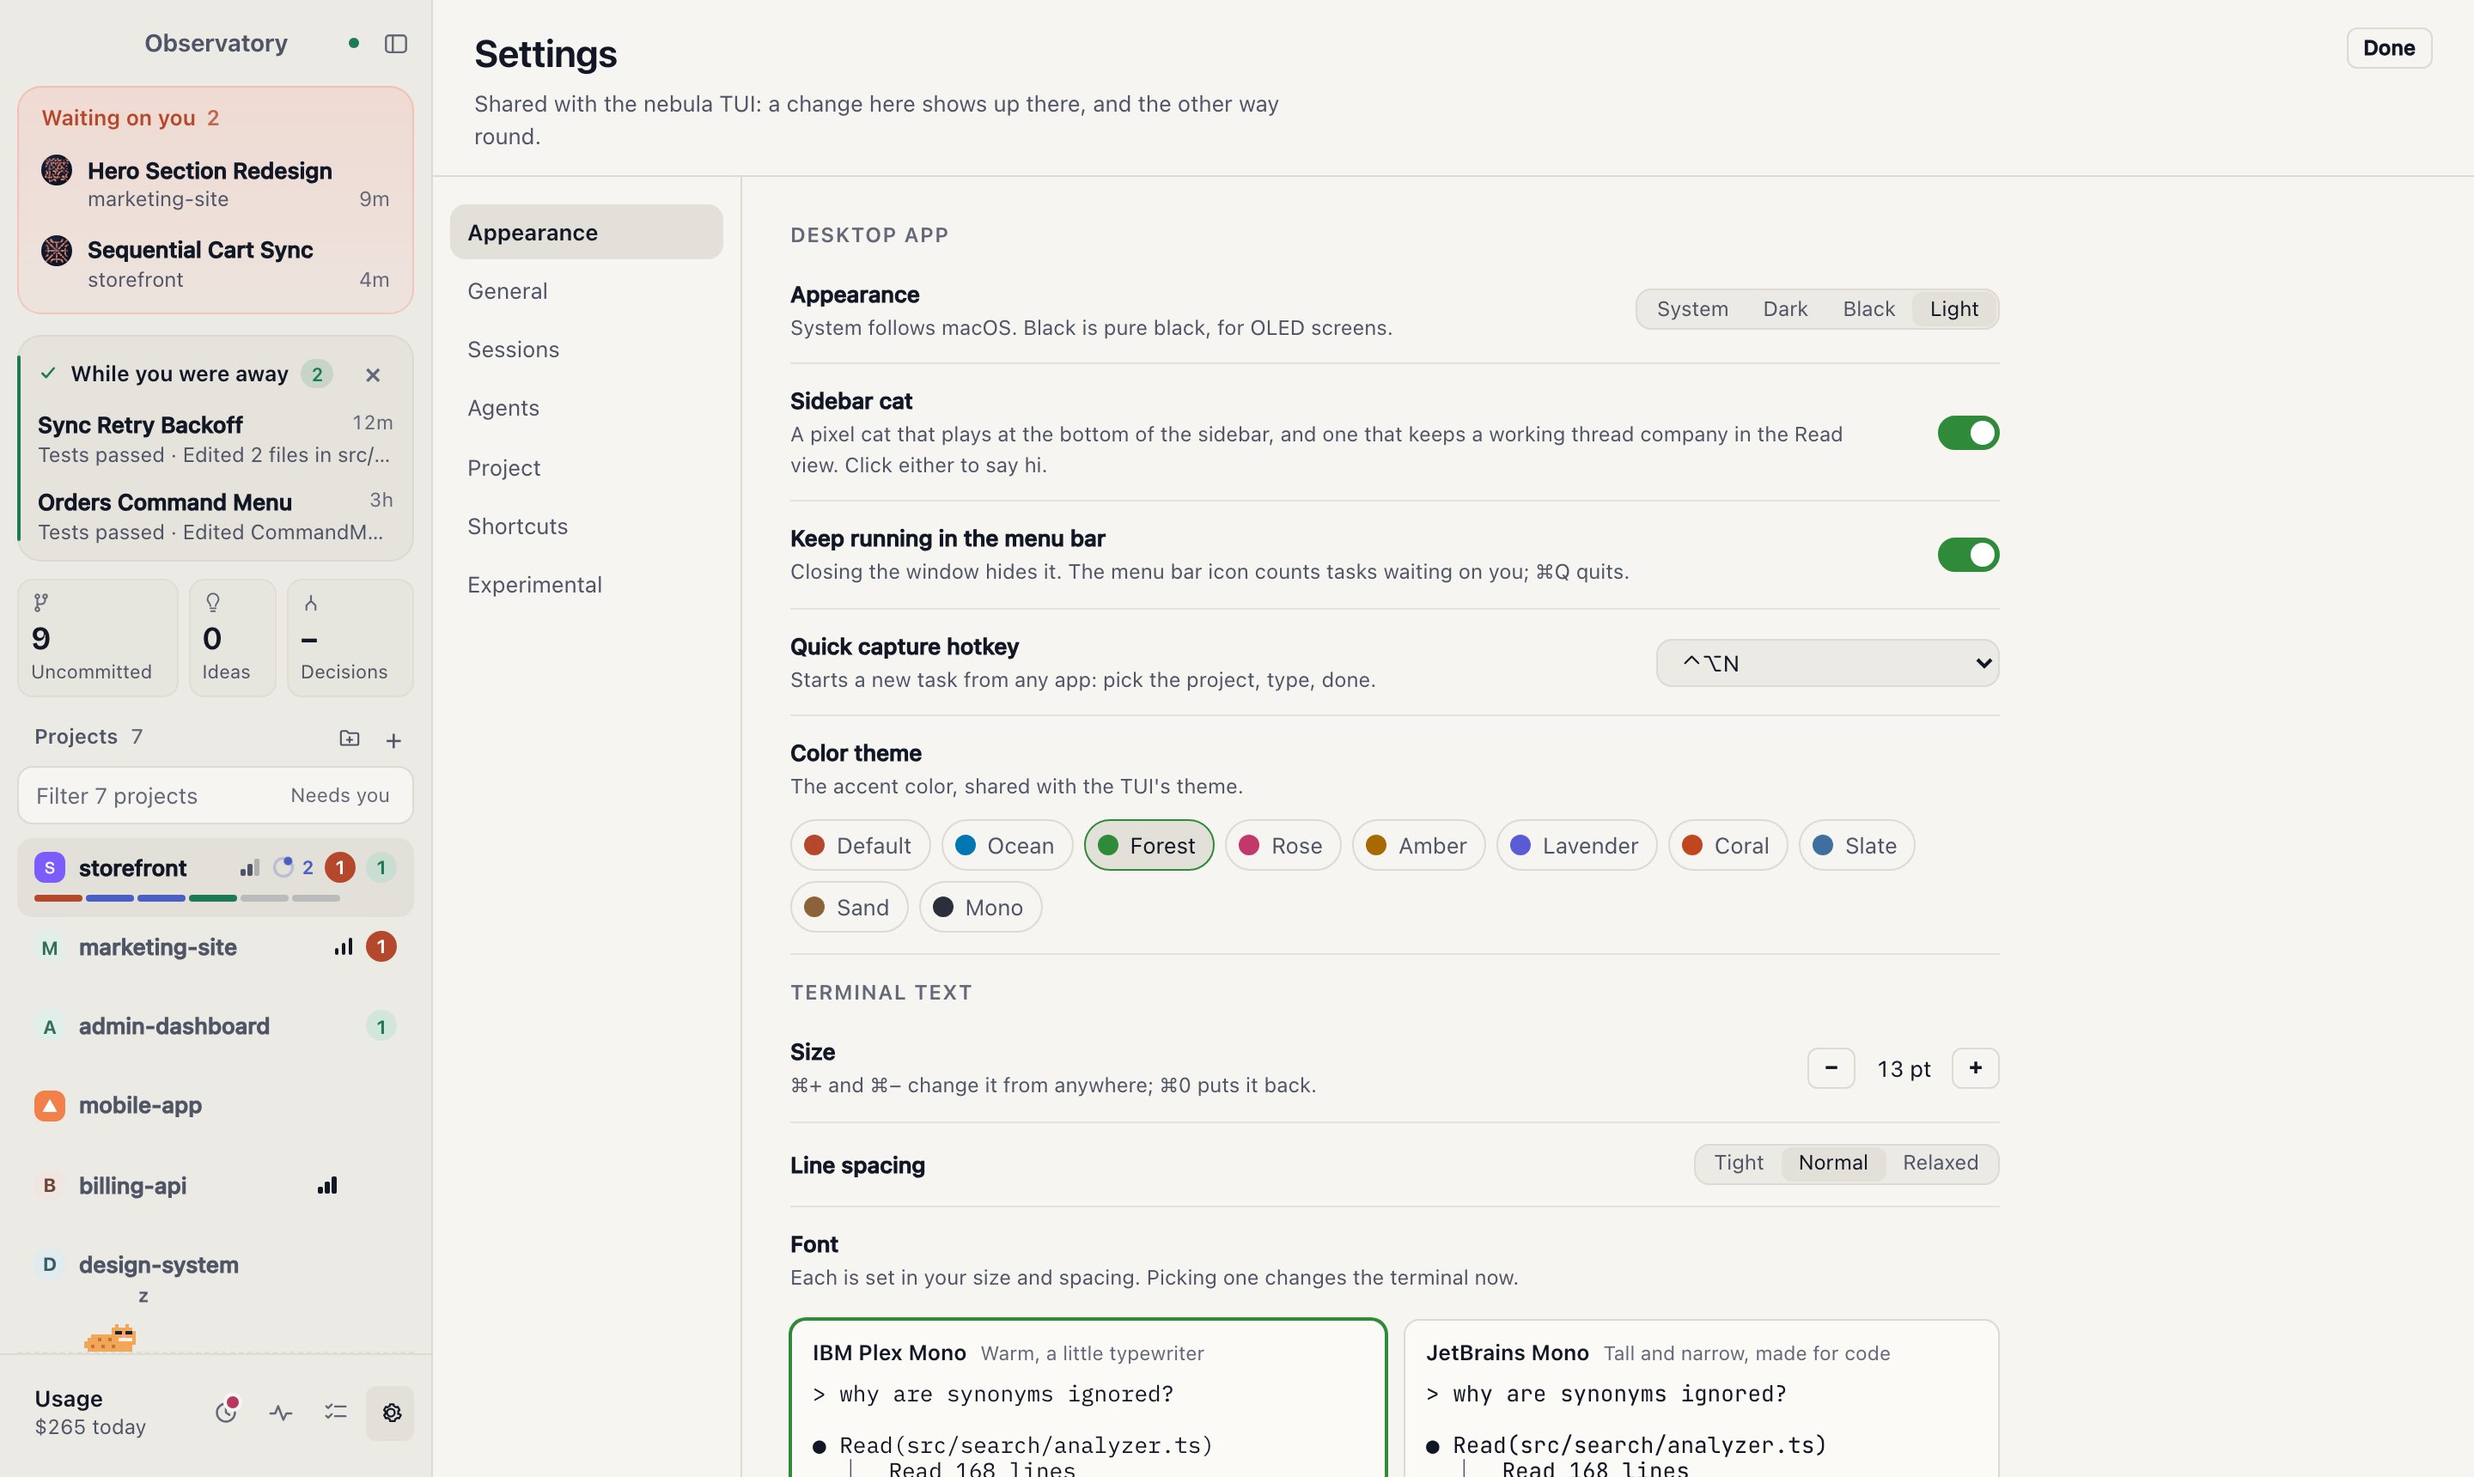
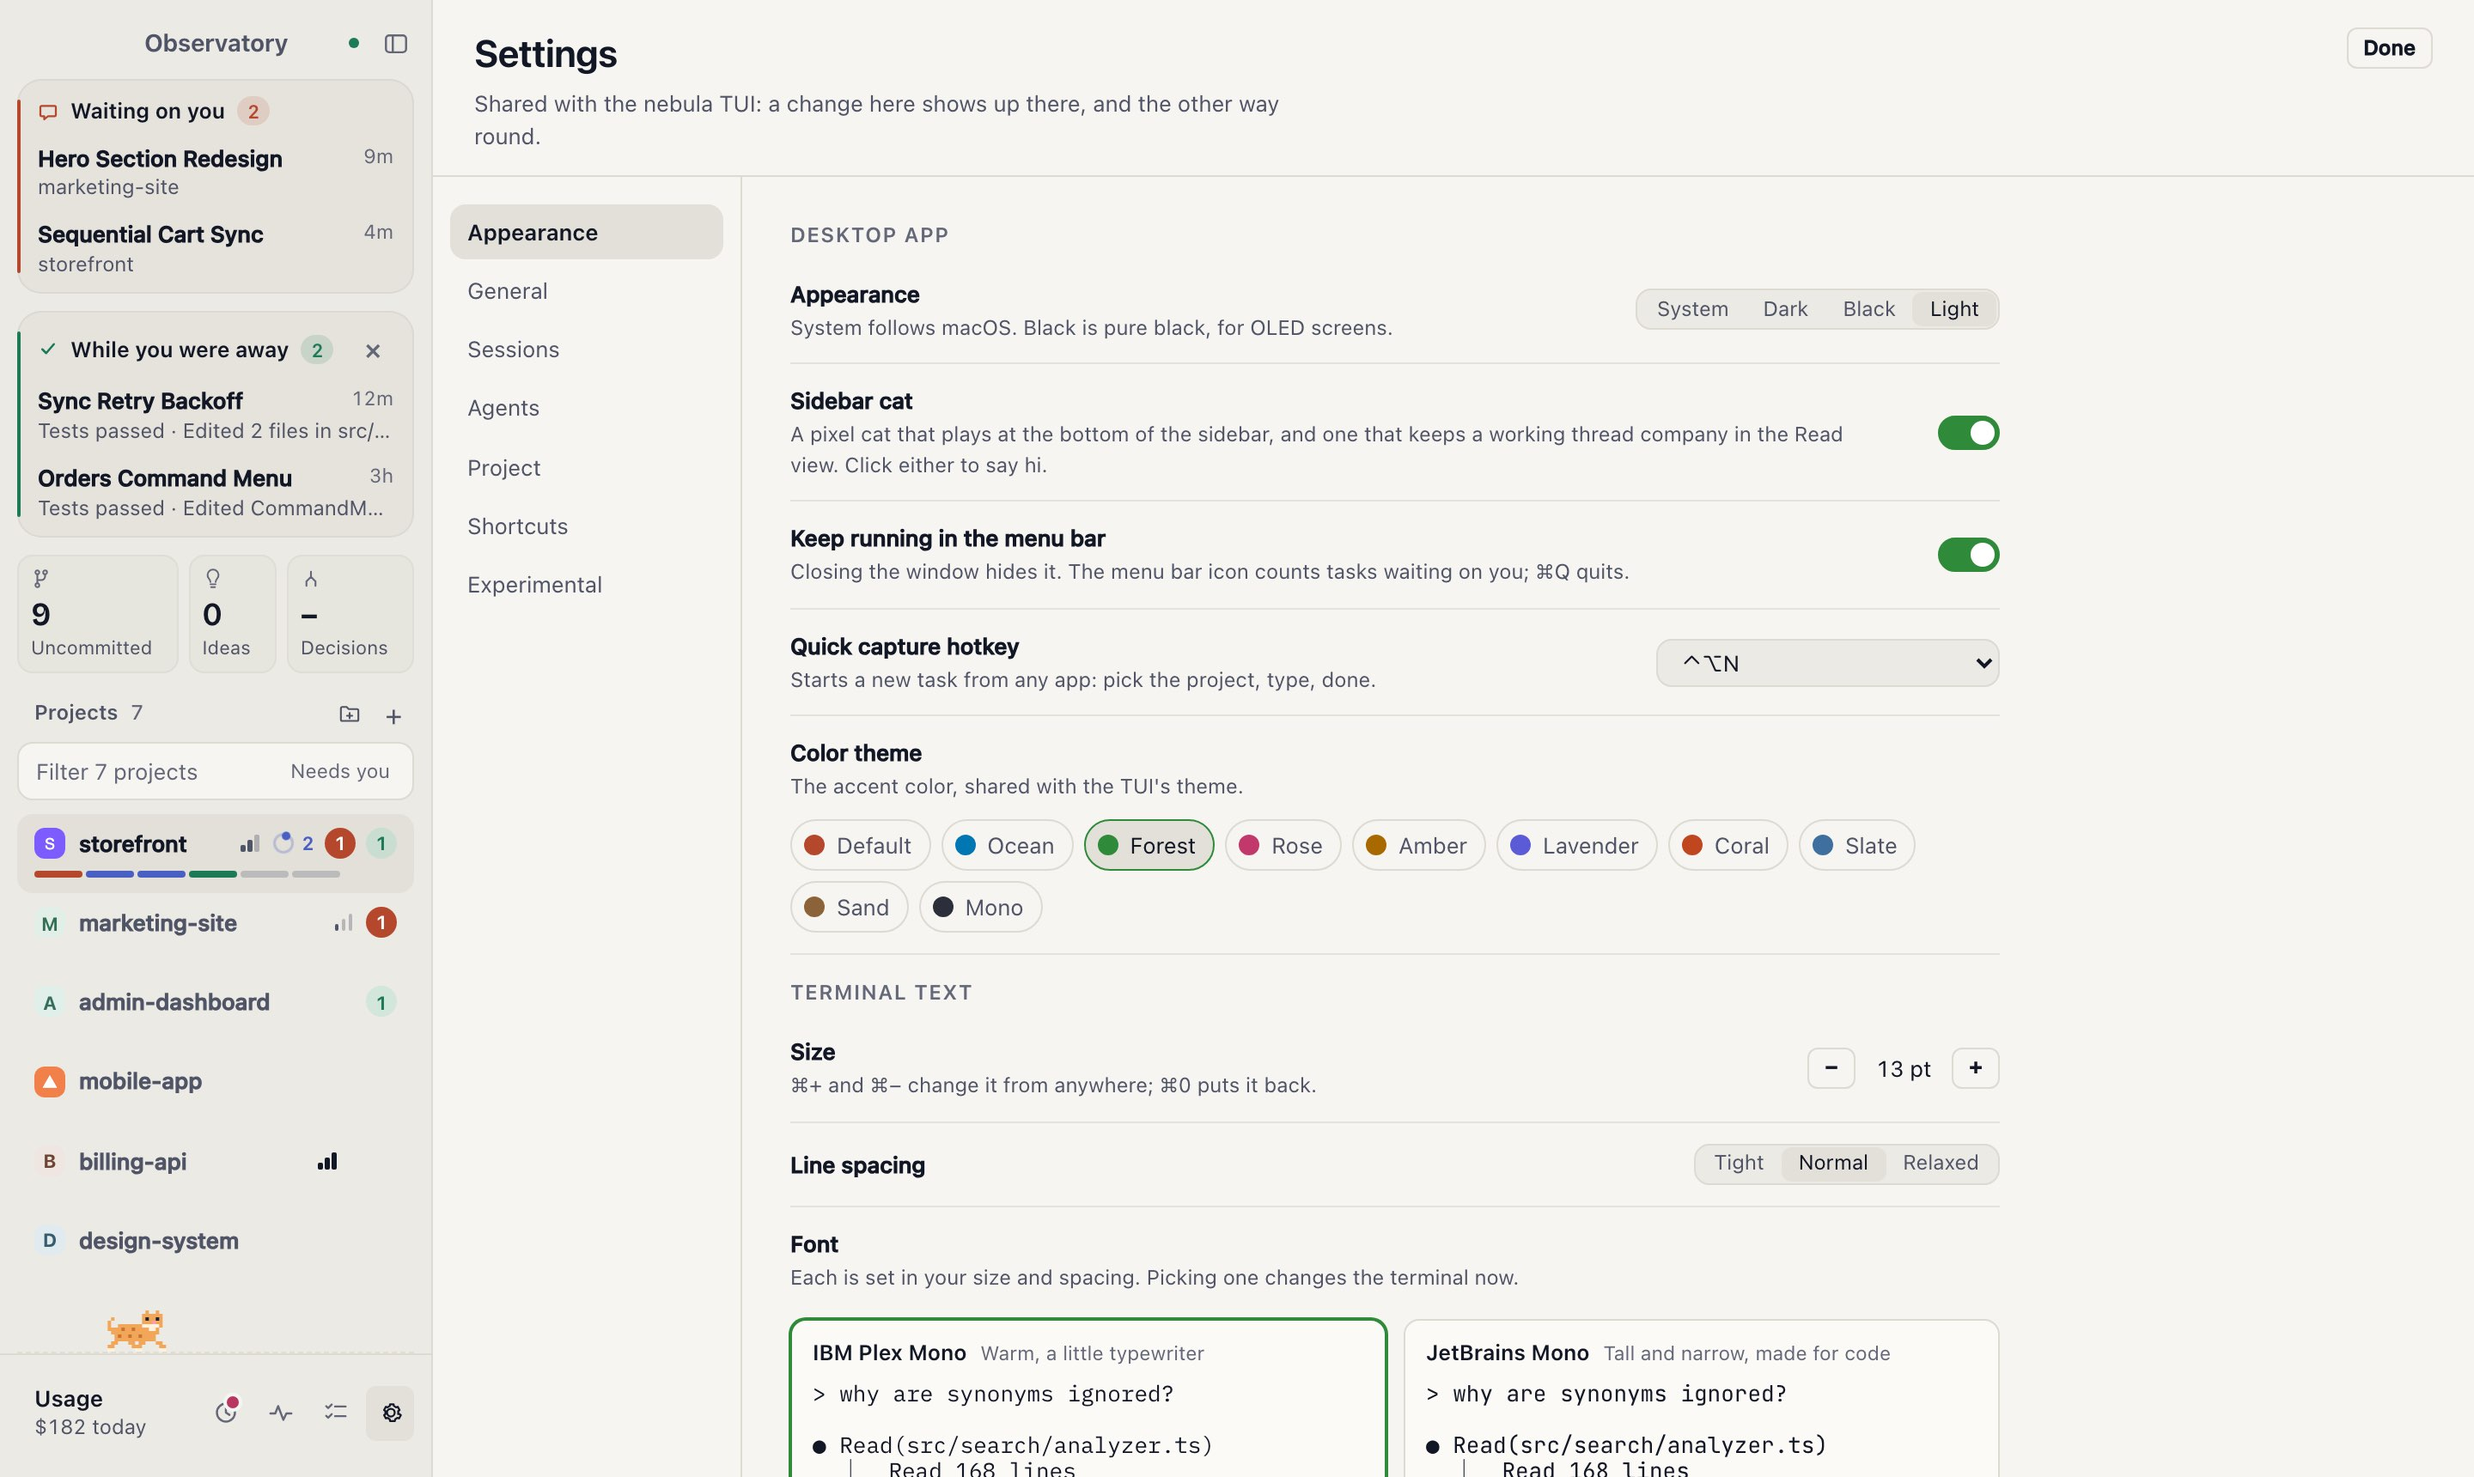
Version 0.13.0

diff --git a/docs/release/whats-new.md b/docs/release/whats-new.md
@@ -10,27 +10,18 @@
   underneath on its own.
 -->
 
-### The Read view reads more calmly
+### Zoom into pictures
 
-Replies, the open-decisions bar and the reply box share one column width. **Needs you** is a tinted well instead of a box inside a box, options sit under their question, and the verdict is a quiet dot. Long file paths show the file name first. What appears now eases in instead of popping, and it all stays still under Reduce motion.
+Click a picture in the preview to zoom in where you clicked, and click again to fit. Pinch, ⌘-scroll, **+** and **−** zoom too, and **0** fits. A bar under the picture shows **‹ 2 of 5 ›** and steps through the files you have open.
 
-### Catch me up
+### Answer more from the Read view
 
-**↻ Catch me up**, above the reply box, asks the agent for a fresh card: what's done, what's running, and every decision still open, renumbered from 1. The earlier decisions it replaces drop out of the "still open" box.
-
-### Do more from the Files list
-
-Right-click a file to **Send** its path to a thread, pin it so it stays on the task's shelf, or pick several and **Open N as tabs**. Files are listed most recent first. Projects drag onto folders and out of them, and a picked color now fills the whole row.
-
-### Hand broken jobs and marked moments to an agent
-
-An unfolded job in the Automations panel has **Fix with an agent**, which starts one in the right project with the job's details and its last log lines. **Start task** on a marked moment now takes the fix all the way to a pull request in its own worktree, reviewed by a second agent.
+When an MCP server asks for input with **Accept / Decline**, the Read view shows the question and both buttons, so you no longer have to switch to the terminal. After you say **Yes** to a permission prompt, the thread shows Working while the command runs, not Waiting on you. **Catch me up** spins and says *Catching you up…* until the fresh card arrives.
 
 ### And smaller things
 
-- **←** / **→** step through a reply's pictures in the preview.
-- Decisions written as bare letters (`A · B · C`) become buttons, labelled from the reply, and options that quote a line with dots in it read correctly.
-- Commands under a Needs-you question show as blocks inside the box, with Copy and Run.
-- The earlier-decisions box folds from **Hide** at its right and stays in view as you scroll.
-- The sidebar's Away and Follow up cards are calmer, and Uncommitted, Ideas and Decisions are counts.
-- Clean up's "Clean up anyway" question can be closed with Cancel or Escape.
+- Web links open in your browser instead of inside the app.
+- A worktree whose folder was deleted says **The folder is gone** and offers **Remove from list**, instead of showing git's error.
+- An always-on job that's running but whose log ends in an error shows **Running, with errors** in orange.
+- Waiting on you uses the same calm card as While you were away and Follow up.
+- A numbered list under a line like "Before you sign:" stays in place in the Read view, instead of turning into empty decisions.
